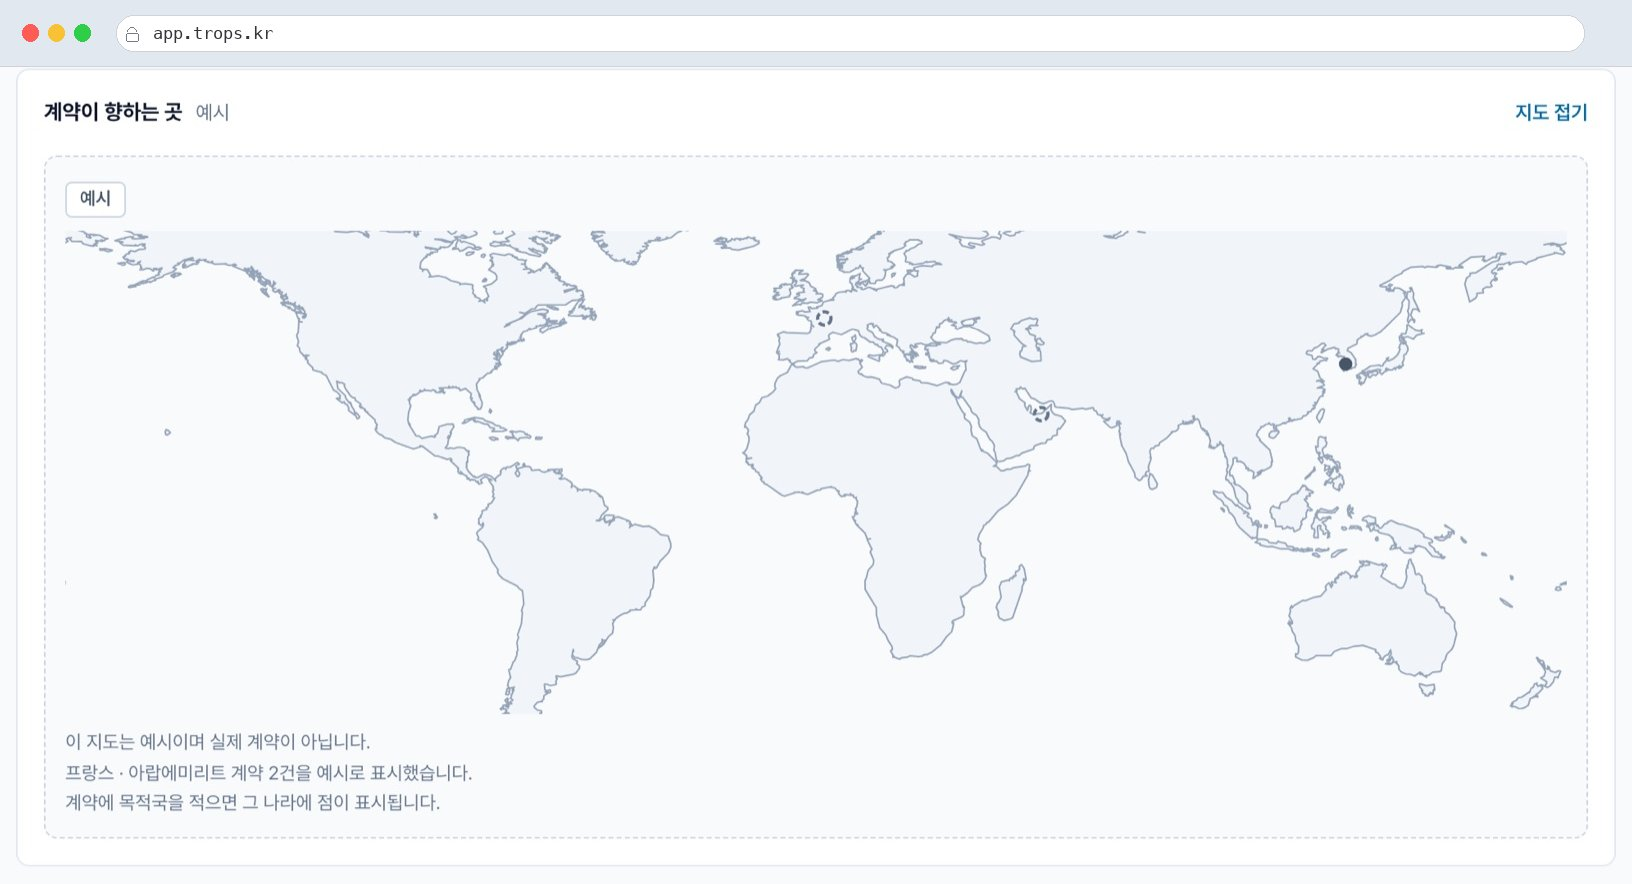
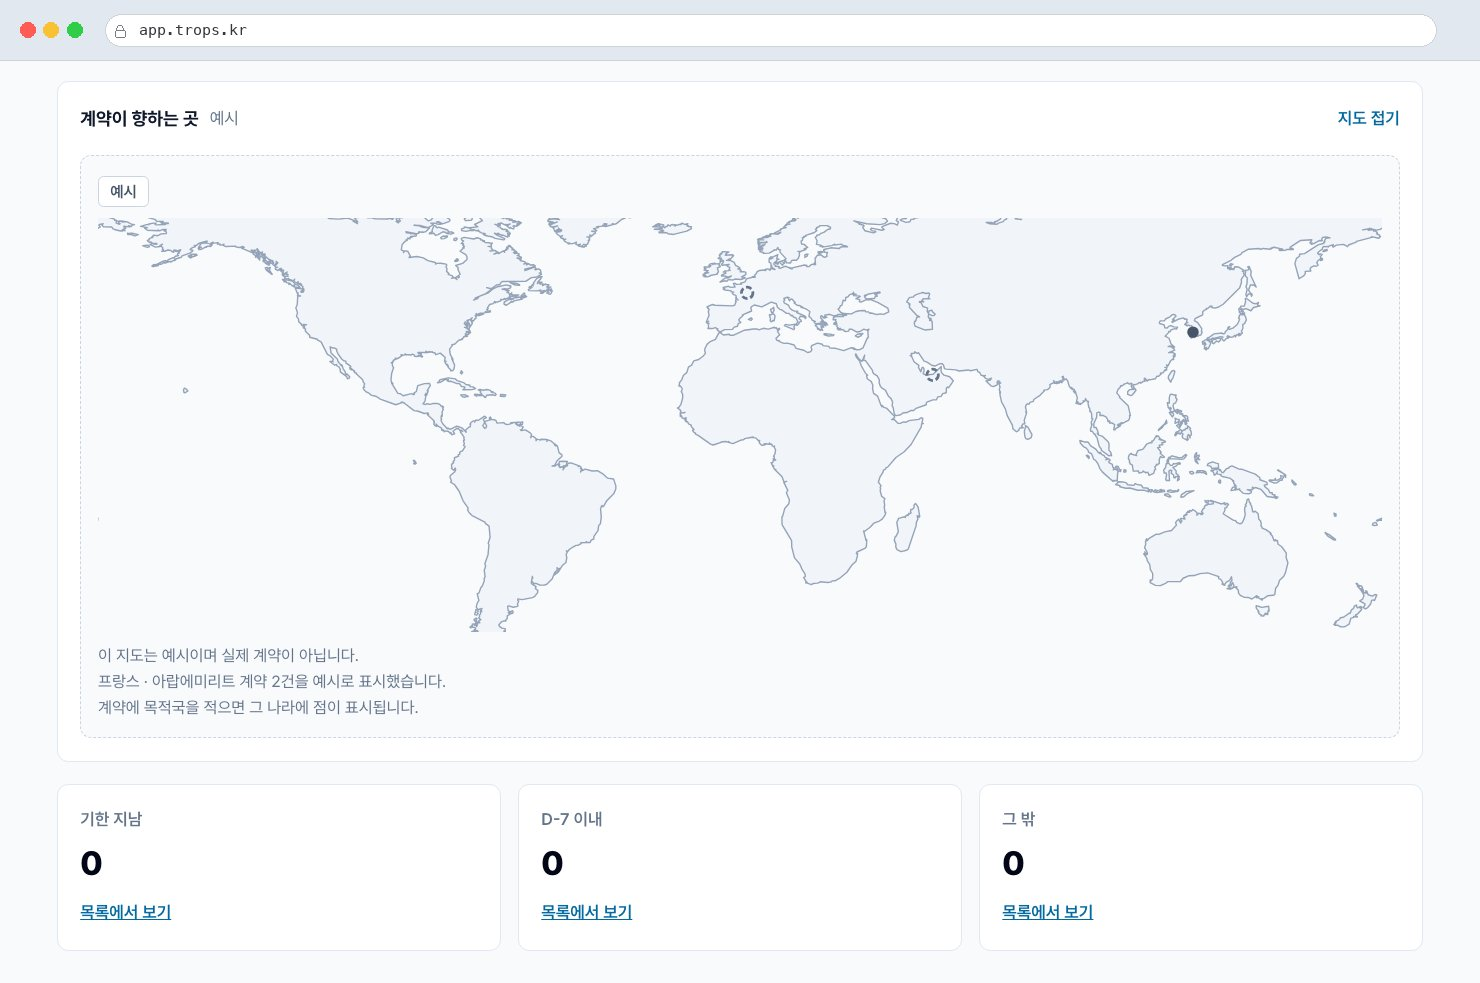
feat(landing): 기한관리 캡처를 지도 한 장에서 홈 대시보드로 넓힌다
지도는 「어디로 가는가」만 말한다. 그런데 이 상품이 파는 것은 「기한이
지났는지·임박했는지」이고, 그 답은 지도가 아니라 그 아래 건수 카드 3장
(기한 지남 / D-7 이내 / 그 밖)에 있다.

바로 옆 본문이 이미 그 말을 하고 있었는데 그림이 받쳐 주지 않았다 —
「남은 날짜로 보여드립니다」에 남은 날짜가 없었고, 「기한 7일 전에 알려드립니다」에
7일이 없었다. 캡처 범위를 홈 대시보드 전체로 넓혀 둘을 맞췄다.

종횡비가 1.85에서 1.51로 바뀌면서 사전점검 캡처(1.53)와 거의 같아졌다.
탭 전환 시 세로 이동이 103px → 43px. s13이 감점으로 남겨둔 항목이 캡처를
자르거나 레터박스를 넣지 않고 줄었다.

건수는 0/0/0 이다. 로그아웃 상태의 실제 화면이라 그렇고, 보기 좋으라고 숫자를
지어 넣지 않았다. 지어 넣으면 랜딩이 제품 상태를 손으로 흉내 내던 s11 이전으로
되돌아간다. 숫자가 든 화면이 필요하면 데모 계약을 만들어 찍어야 한다.

검사 갱신 0건 — 기존 단언은 파일명과 「손으로 그린 지도가 아닌가」를 보고 캡처
내용은 보지 않는다. 그것이 의도다. 426/426 통과.

diff --git a/index.html b/index.html
@@ -952,14 +952,17 @@
   .feat-cap { margin: 0; padding: 8px 2px 2px; font-size: 12.5px; line-height: 1.6; color: var(--muted); }
   /* ✅ **TODO-ASSET 해소 — 자리표시자(.feat-map)를 실제 캡처로 갈았습니다**
      〔2026-08-14 · card-shot-reveal-s11〕.
-     `img/timeline-map.jpg` 는 app.trops.kr 홈(화면 4)의 「계약이 향하는 곳」 패널을
-     그대로 찍은 것입니다(trops_a `components/l1/world-map-panel.tsx`, 로그아웃 상태).
-     그래서 랜딩이 그리던 예시와 제품 화면이 **같은 그림**이 됐습니다 — 이 자리가 지키려던
-     것이 바로 그것입니다.
-     🔄 **창틀만 입혔습니다** 〔2026-08-14 · basis-split-s13〕. 패널 픽셀은 그대로이고,
-        위에 브라우저 창틀(신호등·주소창 `app.trops.kr`)이 붙어 다른 두 캡처와 같은
-        모양이 됐습니다. 창틀 없는 원본으로 되돌리지 마십시오 — 탭을 넘길 때 이 컷만
-        창틀이 사라집니다.
+     `img/timeline-map.jpg` 는 app.trops.kr 홈(화면 4)을 그대로 찍은 것입니다
+     (로그아웃 상태). 그래서 랜딩이 그리던 예시와 제품 화면이 **같은 그림**이 됐습니다 —
+     이 자리가 지키려던 것이 바로 그것입니다.
+     🔄 **창틀을 입혔습니다** 〔2026-08-14 · basis-split-s13〕. 브라우저 창틀(신호등·주소창
+        `app.trops.kr`)이 붙어 다른 두 캡처와 같은 모양이 됐습니다. 창틀 없는 원본으로
+        되돌리지 마십시오 — 탭을 넘길 때 이 컷만 창틀이 사라집니다.
+     🔄 **담는 범위가 「지도 패널」에서 「홈 대시보드 전체」로 넓어졌습니다**
+        〔2026-08-14 · timeline-shot-dashboard-s15〕. 지도(`world-map-panel.tsx`) 아래
+        건수 카드 3장(기한 지남 / D-7 이내 / 그 밖)까지 들어갑니다. 지도는 「어디로
+        가는가」만 말하고, 이 상품이 파는 「기한이 지났는지·임박했는지」는 그 카드 3장이
+        말하기 때문입니다. 마크업 쪽 주석에 사유를 더 적어 두었습니다.
 
      🔴 **제품 정책이 캡처 안에 이미 들어 있습니다.** 정본은 trops_a
         `tests/guardrails/world-map-boundary.test.ts`(D2 · 2026-08-12):
@@ -1832,15 +1835,30 @@
                 <div><a class="btn btn-secondary" href="https://app.trops.kr/" target="_self">계약 등록해보기</a></div>
               </div>
               <!-- ✅ **실제 화면 캡처** 〔2026-08-14 · card-shot-reveal-s11〕.
-                   app.trops.kr 홈(화면 4)의 「계약이 향하는 곳」 패널을 그대로 찍었습니다
-                   (trops_a `components/l1/world-map-panel.tsx`). 손으로 그리던 자리표시자
+                   app.trops.kr 홈(화면 4)을 그대로 찍었습니다. 손으로 그리던 자리표시자
                    (`<div class="feat-map">` + 세로 핀 목록)를 대체한 것입니다.
                    ⛔ 핀 목록·가짜 지도로 되돌리지 마십시오. 사유는 CSS 쪽 주석에 있습니다.
+
+                   🔄 **지도 패널만 → 홈 대시보드 전체(지도 + 건수 카드 3장)**
+                      〔2026-08-14 · timeline-shot-dashboard-s15〕.
+                      담는 범위가 넓어졌습니다 — 종전에는 「계약이 향하는 곳」 패널
+                      (trops_a `components/l1/world-map-panel.tsx`) 하나만 잘라 찍었고,
+                      지도는 **어디로 가는가**만 말합니다. 이 상품이 파는 것은
+                      「기한이 지났는지 · 임박했는지」이고, 그 답은 지도가 아니라 **아래
+                      건수 카드 3장**(기한 지남 / D-7 이내 / 그 밖)에 있습니다.
+                      이제 캡처가 바로 위 .feat-sum(「… 남은 날짜로 보여드립니다」)과
+                      .feat-desc(「기한 7일 전과 1일 전에 …」)를 화면으로 뒷받침합니다.
+
+                   ⚠ **건수가 0 / 0 / 0 인 것은 사실입니다** — 로그아웃 상태(계약 0건)의
+                      실제 화면입니다. 보기 좋으라고 숫자를 지어 넣지 마십시오. 지어 넣는
+                      순간 「제품 화면을 그대로 싣는다」가 깨지고, 랜딩이 제품 상태를 손으로
+                      흉내 내던 s11 이전으로 되돌아갑니다(그것을 없앤 것이 s11 입니다).
+                      숫자가 든 화면이 필요하면 **데모 계약을 만들어 그 화면을 찍으십시오.**
                    ⚠ 캡처 안의 「프랑스 · 아랍에미리트 계약 2건을 예시로 표시했습니다」는
                       제품이 스스로 싣는 고지입니다(trops_a world-map-boundary 정책 ①).
                       그 위에 아래 캡션이 한 겹 더 밝힙니다 — 지우지 마십시오. -->
               <figure class="feat-shot">
-                <img src="/img/timeline-map.jpg" alt="기한관리 대시보드 — 등록된 계약이 목적국 위에 점으로 표시된 세계지도" width="1632" height="884" loading="lazy">
+                <img src="/img/timeline-map.jpg" alt="기한관리 대시보드 — 등록된 계약이 목적국 위에 점으로 표시된 세계지도와, 기한이 지난 것·임박한 것·그 밖으로 나눈 건수 카드 3장" width="1480" height="983" loading="lazy">
                 <figcaption class="feat-cap">예시로 표시한 화면입니다. 실제 고객 거래가 아닙니다.</figcaption>
               </figure>
             </div>

diff --git a/docs/04-report/timeline-shot-dashboard-s15.report.md b/docs/04-report/timeline-shot-dashboard-s15.report.md
@@ -1,0 +1,85 @@
+# timeline-shot-dashboard-s15 — 완료 보고
+
+2026-08-14 · 선행: `card-shot-reveal-s11`(실캡처 도입) · `basis-split-s13`(창틀 통일)
+
+지시가 캡처 교체 한 건이라 Plan/Design 을 따로 두지 않습니다.
+
+---
+
+## 1. 지시
+
+> 기한관리의 세계지도 캡처를 app.trops.kr 홈 대시보드(세계지도 + 하단 3개 박스까지
+> 포함된 버전)로 바꿔줘.
+
+---
+
+## 2. 결과
+
+`img/timeline-map.jpg` 를 교체했습니다. 파일명·자리·캡션은 그대로입니다.
+
+| | 전 | 후 |
+|---|---|---|
+| 담는 범위 | 「계약이 향하는 곳」 패널만 | **홈 대시보드**(지도 + 건수 카드 3장) |
+| 크기 | 1632×884 (1.85) | **1480×983** (1.51) |
+| 용량 | 80KB | 84KB |
+| 창틀 | 있음(`scripts/frame-shot.py`) | 있음(같은 도구·같은 치수) |
+
+캡처 대상: `https://app.trops.kr/` 로그아웃 상태 · 1.4배 확대 · 지도 패널 상단부터
+건수 카드 3장 하단까지.
+
+---
+
+## 3. 왜 이 범위가 맞나
+
+지도는 **「어디로 가는가」**만 말합니다. 그런데 이 상품이 파는 것은
+「기한이 지났는지 · 임박했는지」이고, 그 답은 지도가 아니라 **건수 카드 3장**
+(기한 지남 / D-7 이내 / 그 밖)에 있습니다.
+
+바로 옆 본문이 그 말을 하고 있었는데 그림이 받쳐 주지 않았습니다:
+
+| 본문 | 종전 그림 | 지금 그림 |
+|---|---|---|
+| 「… 한 화면에 모아 **남은 날짜로 보여드립니다**」 | 지도만 — 남은 날짜가 없음 | **카드 3장이 그 날짜 구간** |
+| 「기한 **7일 전**과 1일 전에 메일로 알려드립니다」 | 없음 | **`D-7 이내` 카드** |
+
+## 4. 부수 성과 — 탭 전환 세로 이동이 43px 로 줄었습니다
+
+새 캡처의 종횡비(1.51)가 사전점검 캡처(1.53)와 거의 같습니다.
+
+| 선택 탭 | s13 | s14 | **s15** |
+|---|---|---|---|
+| 사전점검 | 845 | 845 | 845 |
+| 바이어확인 | 888 | 888 | 888 |
+| 기한관리 | 785 | 785 | **851** |
+| **높이 폭** | 103 | 103 | **43** |
+
+`basis-split-s13` 이 감점 −1 로 기록해 둔 「탭 전환 세로 이동 103px」이 **43px** 이 됐습니다
+(재배치 전 162px 기준으로는 1/4). 캡처를 자르거나 레터박스를 넣지 않고 줄었습니다.
+
+---
+
+## 5. 🔴 건수가 `0 / 0 / 0` 입니다 — 확인 필요
+
+캡처의 카드 3장은 **전부 0** 입니다. 로그아웃 상태(계약 0건)의 **실제 화면**이기 때문입니다.
+
+숫자를 지어 넣지 않았습니다. 지어 넣으면 「제품 화면을 그대로 싣는다」가 깨지고,
+랜딩이 제품 상태를 손으로 흉내 내던 `card-shot-reveal-s11` **이전으로 되돌아갑니다** —
+그것을 없앤 것이 s11 의 요지였습니다. 지도 안의 「예시」 고지는 **제품이 스스로** 싣는
+것이라 성격이 다릅니다(trops_a `world-map-boundary` 정책 ①).
+
+숫자가 든 화면을 원하시면 **데모 계약을 만들어 그 화면을 찍는 것**이 유일하게 정직한
+방법입니다. 운영 DB 에 데모 데이터를 쓰는 일이라 승인 없이 진행하지 않았습니다
+(s11 이 같은 이유로 한 번 보류한 판단입니다).
+
+---
+
+## 6. 검사
+
+`npm test` **426/426**. 검사 갱신 **0건** — 기존 단언이 파일명(`/img/timeline-map.jpg`)과
+「손으로 그린 지도가 아닌가」를 보고, 캡처 **내용**은 보지 않기 때문입니다. 그것이 이
+검사들의 의도이기도 합니다(제품 화면이 바뀌면 랜딩이 따라가는 것이 정상).
+
+주의해서 확인한 것 하나 — `landing-flow-s9` 의 `assert.ok(!/D-\d+/.test(card))`
+(「D-day 표기가 남아 있습니다」)는 **마크업**을 봅니다. 캡처 안의 `D-7 이내` 는 이미지
+픽셀이라 걸리지 않고, `alt` 텍스트에도 D 숫자를 쓰지 않았습니다.
+⚠ alt 를 고칠 때 `D-7` 을 적지 마십시오 — 그 순간 이 검사가 걸립니다.
